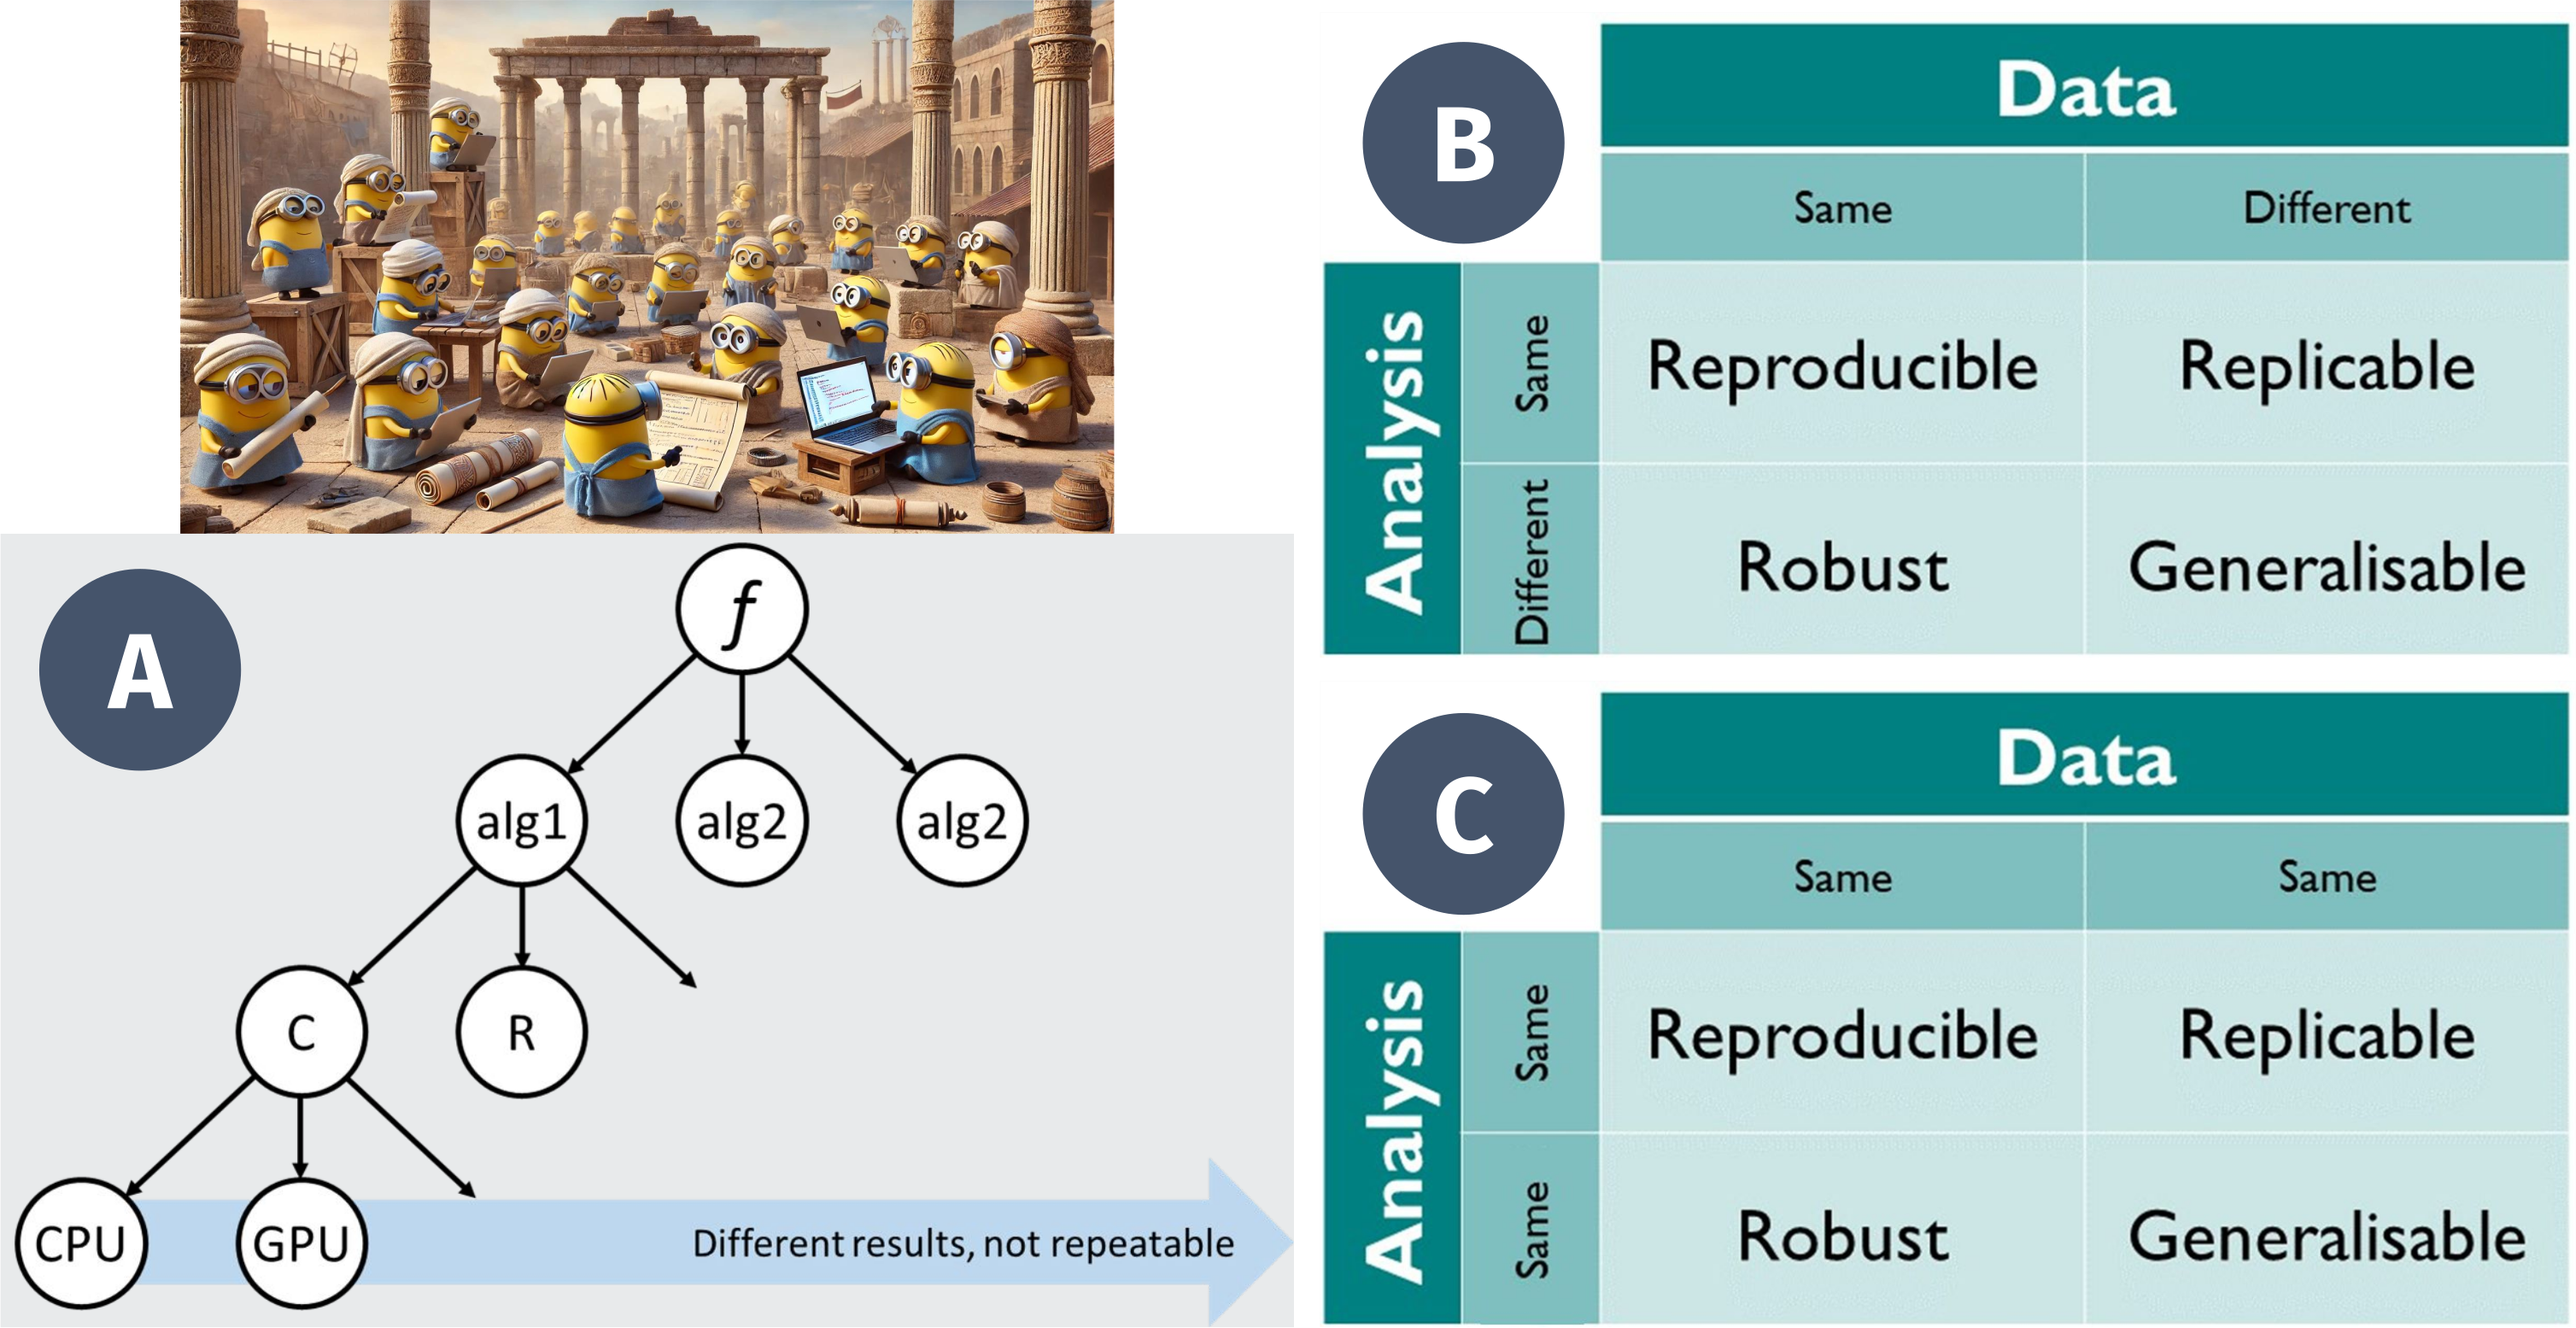
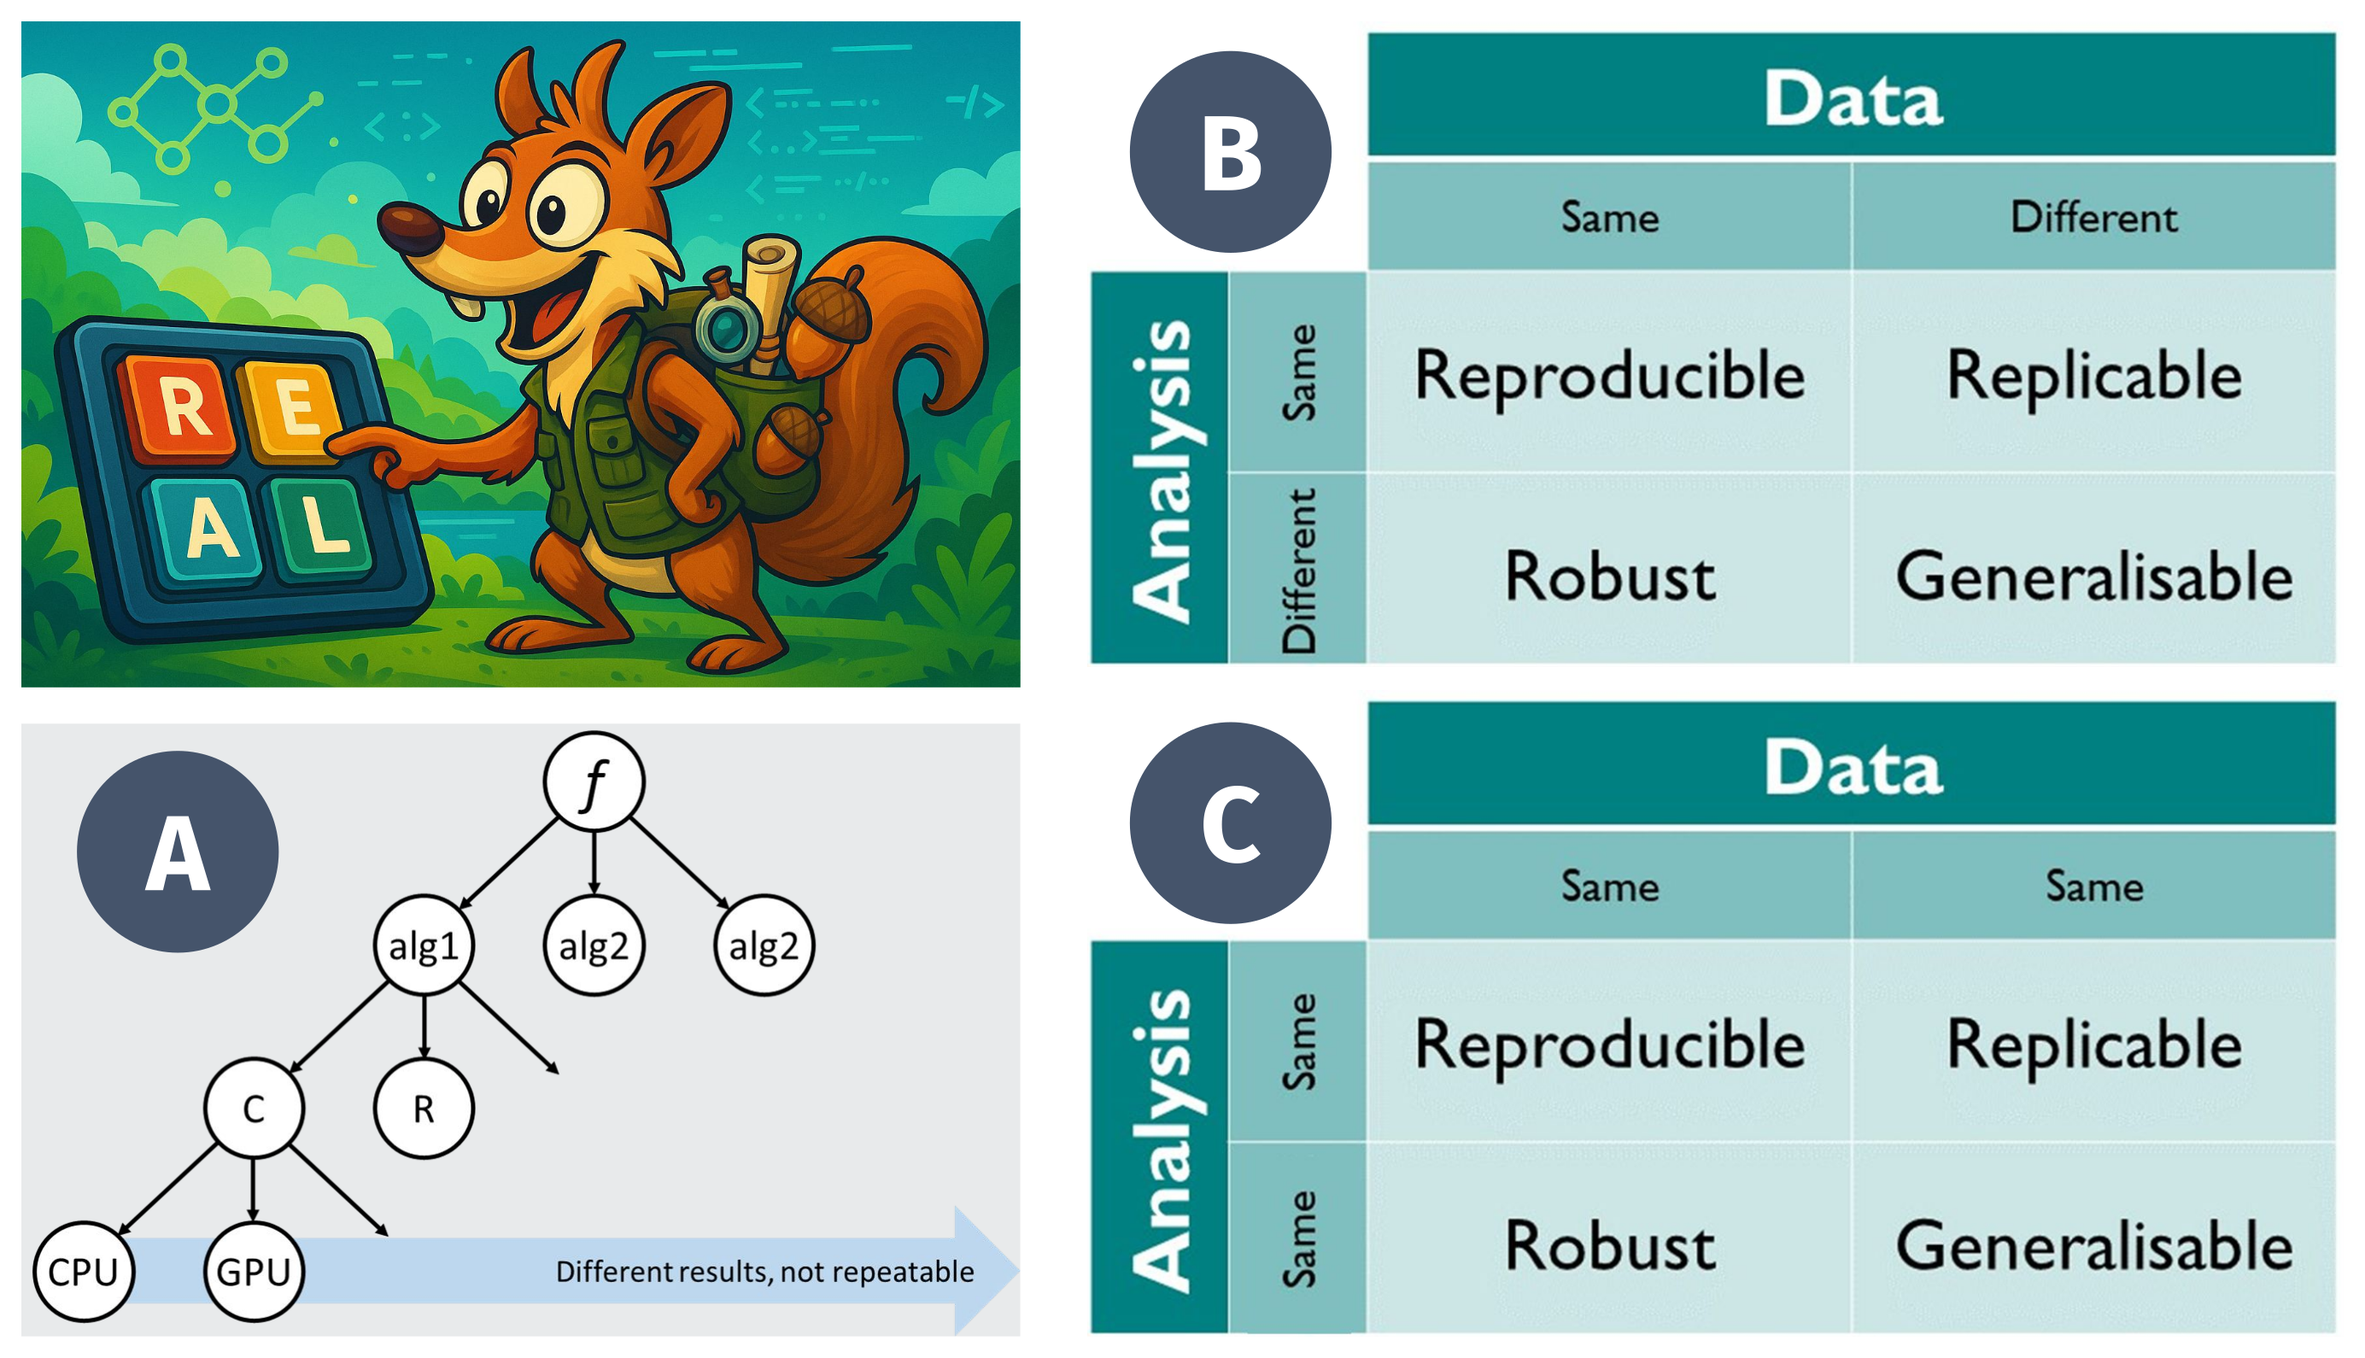
Updates from Overleaf

diff --git a/ECEASST-LaTeX-Templates/article.tex b/ECEASST-LaTeX-Templates/article.tex
@@ -74,7 +74,14 @@ The presented software tools within this paper\footnote{This paper is based on t
     \item \textbf{Literal} insofar as the algorithm is a sound and correct representation of the mathematical methods to be applied, and hence can lead to reproducable and generalizable results [the Turing way]
 \end{itemize}
 
-In general, scientists will generate their own code before reusing existing methods, primarily because of the complexity involved in (a) understanding existing code and (b) adapting it to the given needs. This means that code for the same functionality will be re-implemented repeatedly, making assessing its “Literal”ity difficult.  And even if two scientists have the same (mathematical) function in mind, they can choose different ways of realising and executing said function (Figure~\ref{fig:real}, A). A major problem consist in reproducibility over time. The same algorithm can lead to entirely different results depending on (1) choice of language, (2) data encoding, and (3) solver used (if needed)~\cite{hennessy_new_2019}. Similarly, and even worse, the same code can vary in results based on (1) the hardware it is executed on, (2) the compiler (settings) chosen, and (3) if solvers or AI are used, random coefficients. Because hardware, compilers and languages develop over time, the exact same code may not produce the same results anymore after 5 years.  Research Data Management, specifically archiving research software, typically supports long term reproducibility by virtualising the hardware and all components during code execution. This ensures that the same results can be reproduced, to a degree. In particular, where random parameters play a role in calculating the results, such as in Simulated Annealing, k-means or Monte Carlo methods, the same results can only be reproduced if the exact same random seeds are fed. In addition, effort, cost, and storage space are excruciating, limiting applicability seriously. Following the “Turing Way”, reproducibility is “when the same analysis steps performed on the same dataset consistently produces [sic!] the same answer"~\cite{the_turing_way_community_turing_2025} strictly bound to the same data and the same type of analysis (aka code). As noted, though, very few algorithms, let alone codes, will create the exact same results unless under very controlled circumstances (Figure~\ref{fig:real}, B). What does that tell us, though? First of all, nothing else but that the code executes. After all: 
+\begin{figure}[h!]
+    \centering
+    \includegraphics[width=0.95\linewidth]{ECEASST-LaTeX-Templates/img/REAL.png}
+    \caption{Keeping it REAL. (A) Logical process from function to (running) code; (B) Reproducibility according to the Turing Way. Note how the conditions are extremely controlled; (C) Modified Turing Way. Note how the same conditions will lead to different interpretations of the results. top-left: Florian Thiery CC BY 4.0, created using OpenAI’s DALL·E; A-C: Lutz Krister Schubert, CC BY 4.0.}
+    \label{fig:real}
+\end{figure}
+
+In general, scientists will generate their own code before reusing existing methods, primarily because of the complexity involved in (a) understanding existing code and (b) adapting it to the given needs. This means that code for the same functionality will be re-implemented repeatedly, making assessing its “Literal”ity difficult.  And even if two scientists have the same (mathematical) function in mind, they can choose different ways of realising and executing said function (Figure~\ref{fig:real}, A). A major problem consist in reproducibility over time. The same algorithm can lead to entirely different results depending on (1) choice of language, (2) data encoding, and (3) solver used (if needed)~\cite{hennessy_new_2019}. Similarly, and even worse, the same code can vary in results based on (1) the hardware it is executed on, (2) the compiler (settings) chosen, and (3) if solvers or AI are used, random coefficients. Because hardware, compilers and languages develop over time, the exact same code may not produce the same results anymore after 5 years.  Research Data Management, specifically archiving research software, typically supports long term reproducibility by virtualising the hardware and all components during code execution. This ensures that the same results can be reproduced, to a degree. In particular, where random parameters play a role in calculating the results, such as in Simulated Annealing, k-means or Monte Carlo methods, the same results can only be reproduced if the exact same random seeds are fed. In addition, effort, cost, and storage space are excruciating, limiting applicability seriously. Following the “Turing Way”, reproducibility is “\textit{when the same analysis steps performed on the same dataset consistently produces [sic!] the same answer}"~\cite{the_turing_way_community_turing_2025} strictly bound to the same data and the same type of analysis (aka code). As noted, though, very few algorithms, let alone codes, will create the exact same results unless under very controlled circumstances (Figure~\ref{fig:real}, B). What does that tell us, though? First of all, nothing else but that the code executes. After all: 
 
 \begin{lstlisting}[
     style = myListingStyle,
@@ -83,7 +90,7 @@ In general, scientists will generate their own code before reusing existing meth
     void main(){return rnd();}
 \end{lstlisting}
 
-As we can see, the strict Turing Way definition - and therefore the generally acknowledged definition of FAIR and Open Science Code, namely to be fully reproducible - does not lead to actual insights into the code's correctness (i.e. “Literal”ity). We take it for granted by noting that code and data are accessible. However, we are really interested in a publication's scientific relevance and validity - in other words, whether the results apply to a broader range of conditions. Or, to put it in terms of the Turing Way, if they are generalizable. This is immediately obvious with methods such as Monte Carlo or k-means, which rely on stability over random parameters. The implicit statement of such an analysis differs from Reproducibility and is closer to Replicability and Robustness of the Turing Way. Yet, we need to bear in mind that data and analysis have not changed. Instead, as depicted in (Figure~\ref{fig:real}, C), they stay the same, yet lead to different results. We therefore distinguish between different Interpretability of the results in terms of:
+As we can see, the strict Turing Way definition - and therefore the generally acknowledged definition of FAIR and Open Science Code, namely to be fully reproducible - does not lead to actual insights into the code's correctness (i.e. “Literal”ity). We take it for granted by noting that code and data are accessible. However, we are really interested in a publication's scientific relevance and validity - in other words, whether the results apply to a broader range of conditions. Or, to put it in terms of the Turing Way, if they are generalizable. This is immediately obvious with methods such as Monte Carlo or k-means, which rely on stability over random parameters. The implicit statement of such an analysis differs from Reproducibility and is closer to Replicability and Robustness of the Turing Way. Yet, we need to bear in mind that data and analysis have not changed. Instead, as depicted in (Figure~\ref{fig:real}, C), they \textit{stay the same, yet lead to different results}. We therefore distinguish between different Interpretability of the results in terms of:
 
 \begin{itemize}
     \item \textbf{Reproducible}: data, code and all environmental conditions are identical. Interpretation of the results is limited to the conditions applied
@@ -92,13 +99,6 @@ As we can see, the strict Turing Way definition - and therefore the generally ac
 \end{itemize}
 
 In the future we must clearly identify the degree of tolerance the interpretation of results allows. In other words, a good REAL publication provides not only all relevant data \textit{and} code, but also an assessment of the scope of validity of the results. In some cases this requires serious re-thinking of the interpretation.
-
-\begin{figure}[h!]
-    \centering
-    \includegraphics[width=0.95\linewidth]{ECEASST-LaTeX-Templates/img/REAL.png}
-    \caption{Keeping it REAL. (A) Logical process from function to (running) code; (B) Reproducibility according to the Turing Way. Note how the conditions are extremely controlled; (C) Modified Turing Way. Note how the same conditions will lead to different interpretations of the results. Lutz Krister Schubert, CC BY 4.0.}
-    \label{fig:real}
-\end{figure}
 
 \section{Community-driven grassroots Research FAIRification Tools (RFAIRT) coded from Humanities and Geosciences}\label{Sec31}
 
